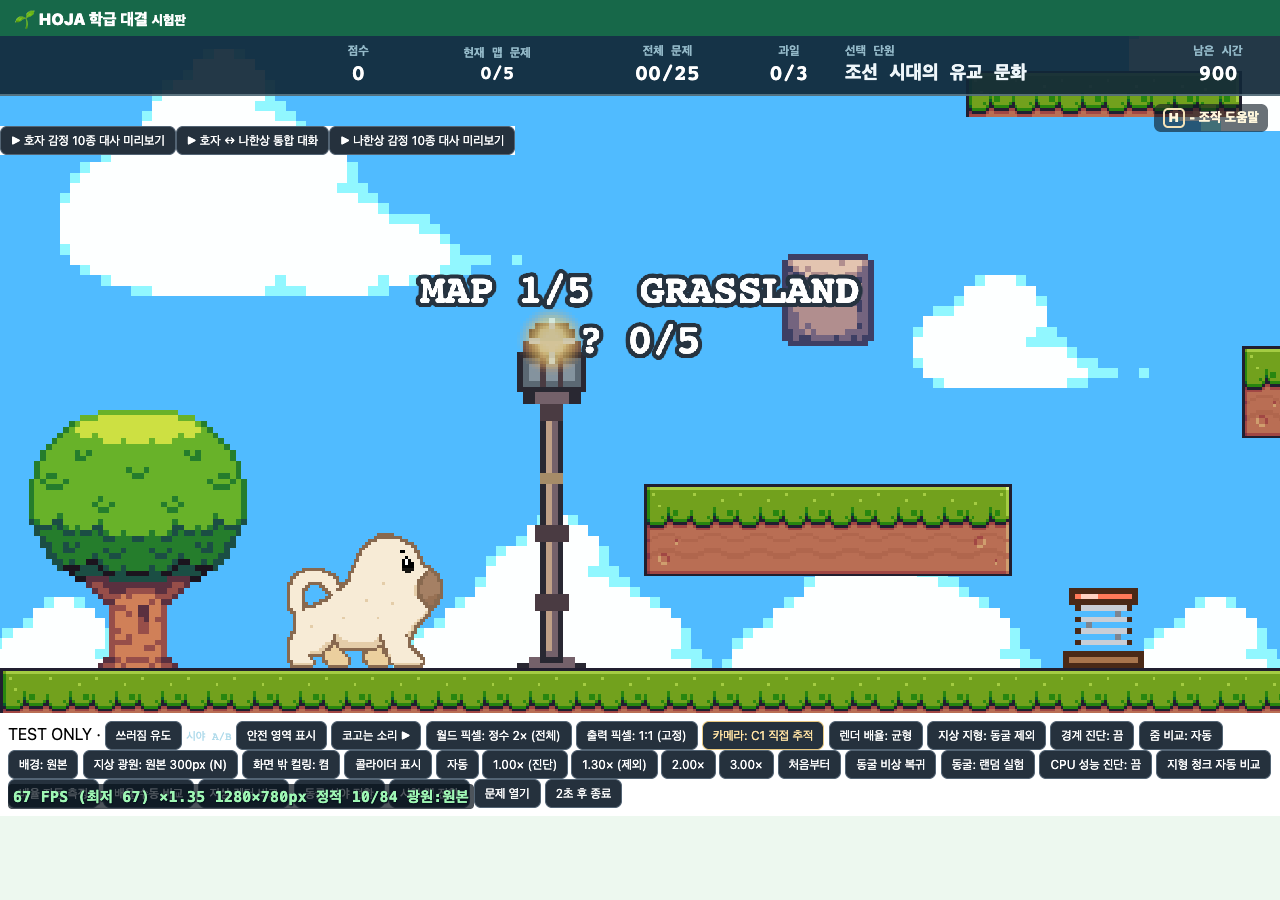
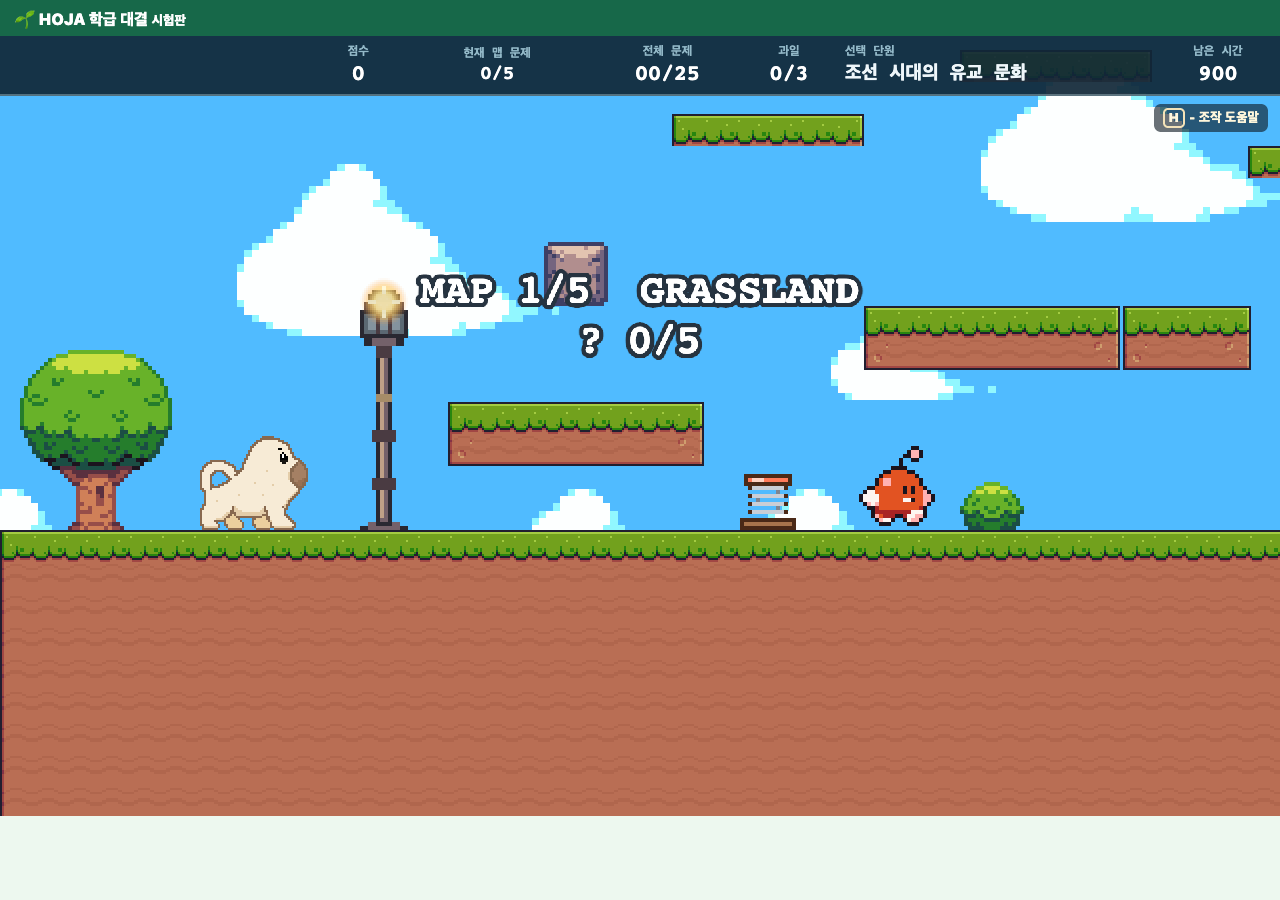
Record classroom preview validation and captures

diff --git a/verification/phase3c/README.md b/verification/phase3c/README.md
@@ -19,9 +19,11 @@ verification/phase3c/run-class.sh
 
 ## 검증 및 한계
 
-- 통합: 실제 Auth·Firestore 에뮬레이터와 교사 1/학생 3 독립 Chromium 컨텍스트에서 QR 주소 입장, 팀 배정, 900초 게임 시작, 새로고침·교사 재시작, 세 종류 종료, 제출, 팀 평균·발표 확인. 세 종료는 시험 빌드의 제어 기능으로 유도했고 자연 완주가 아니다. 캡처의 게임 화면에 보이는 진단 버튼은 시험 빌드 전용이다.
+- 통합: 실제 Auth·Firestore 에뮬레이터와 교사 1/학생 3 독립 Chromium 컨텍스트에서 QR 주소 입장, 팀 배정, 900초 게임 시작, 새로고침·교사 재시작, 세 종류 종료, 제출, 팀 평균·발표 확인. 세 종료는 시험 빌드의 제어 기능으로 유도했고 자연 완주가 아니다. 게임 화면 캡처는 진단 버튼이 없는 배포 빌드에서 별도로 촬영했다.
 - 게임 시간과 점수: 기본 900초, 기본 경계 200/100초, 교사 설정 300~1800초와 비례 경계. 25문항 정상 종료는 FINISH와 같은 시간 보너스 `round(ceil(remainingMs/1000)*found/25)` 적용. 기존 600초 기준 기록은 수정하지 않았다.
 - 에뮬레이터 격리, 권한, 중복 제출·마감 경합, 버전 오류는 별도 기존 에뮬레이터 시험으로 검증한다. 싱글은 별도 코드 경로이며 Firebase 요청이 없다.
 - NOT RUN: 실제 학생과 실기기/태블릿 입력, 전자칠판, 학교망 및 다수 단말 부하, 장시간 실제 900초 플레이, 자연 완주, 운영 호스팅·Firebase·GAS, 외부 Maker/Lab 전체 연동. QR 이미지는 생성되고 같은 주소로 브라우저 접속을 확인했으며 물리 카메라 스캔은 하지 않았다. Phaser CDN 접근이 필요하다.
 
 통합 자동 시험: `HOJA_CLASS_BUILD=test verification/phase3c/run-class.sh`를 실행한 뒤 출력된 교사 주소를 `HOJA_TEACHER_URL`로 지정하여 `node verification/phase3c/browser-test.mjs` 실행. 시험 빌드 제어 도구는 배포 빌드에는 없다.
+
+- 2026-11-21: Phase 2C·2D·3B1 모듈/브라우저 55건 PASS; Phase 3A·3B0 및 일부 모듈 31건 PASS; 격리 에뮬레이터 19건 PASS; 에뮬레이터 중단 시 차단 PASS; 기존 기준 trace 및 유도 FINISH 63점 PASS; 배포 빌드 LAN 주소 교사/학생 접속 및 시험 훅 미노출 PASS. 이 수치는 별도 시험군이며 중복된 테스트가 있다.
